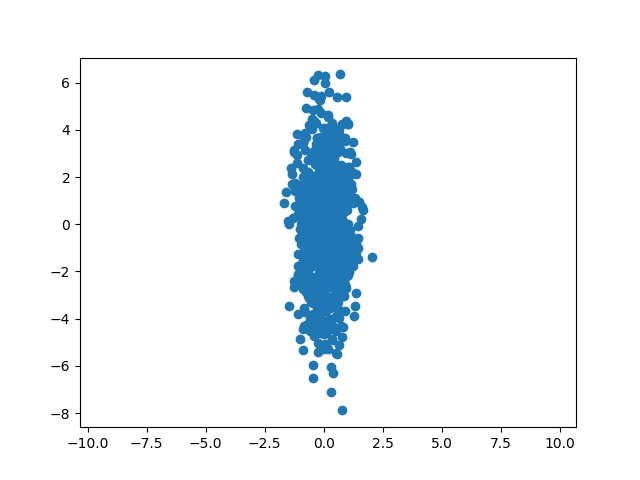
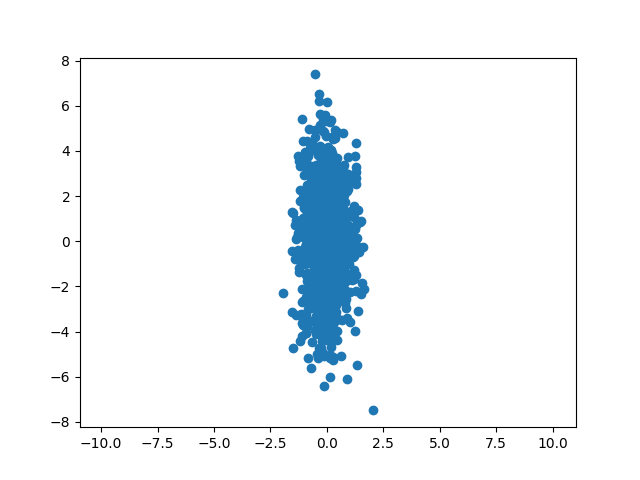
Write up most of the report

diff --git a/lab5/latex/main.tex b/lab5/latex/main.tex
@@ -46,93 +46,81 @@
 \usepackage[colorlinks=true, allcolors=blue]{hyperref}
 \graphicspath{{./figures/}}
 
-\title{ECE 637 - Lab 1}
+\title{ECE 637 Lab - Eigen-Decomposition of Images}
 \author{Colin Braun}
 
 \begin{document}
 \maketitle
 
-\section{Area Fill}
-\subsection{Print out of img22gd2.tif}
+\stepcounter{section}
+\section{Multivariate Gaussian Distributions and Whitening}
+\subsection{Generating Gaussian Random Vectors}
 \begin{figure}[H]
     \centering
-    \includegraphics[width=1\textwidth]{../img22gd2.png}
-    \begin{center}
-    \end{center}
-\end{figure}
-\subsection{Print out of image showing the connected set for s = (67, 45), and T = 2}
+    \includegraphics[width=1\textwidth]{../w-2-1.png}
+        \end{figure}
 \begin{figure}[H]
     \centering
-    \includegraphics[width=1\textwidth]{../connected-set-2t.png}
-    \begin{center}
-    \end{center}
-\end{figure}
-\subsection{Print out of image showing the connected set for s = (67, 45), and T = 1}
+    \includegraphics[width=1\textwidth]{../x-tilde-2-1.png}
+        \end{figure}
 \begin{figure}[H]
     \centering
-    \includegraphics[width=1\textwidth]{../connected-set-1t.png}
-    \begin{center}
-    \end{center}
-\end{figure}
-\subsection{Print out of image showing the connected set for s = (67, 45), and T = 3}
+    \includegraphics[width=1\textwidth]{../x-2-1.png}
+        \end{figure}
+\subsection{Covariance Estimation and Whitening}
+The theoretical value of the covariance $R_x$ is given as
+\begin{equation*}
+R_x = 
+\begin{bmatrix}
+    2 & -1.2 \\
+    -1.2 & 1
+\end{bmatrix}
+\end{equation*}.
+The covariance estimate $\hat{R}_X$ is calculated to be
+\begin{equation*}
+\hat{R}_X = 
+\begin{bmatrix}
+    1.97 & -1.19 \\
+    -1.19 & 0.99
+\end{bmatrix}
+\end{equation*}.
 \begin{figure}[H]
     \centering
-    \includegraphics[width=1\textwidth]{../connected-set-3t.png}
-    \begin{center}
-    \end{center}
-\end{figure}
-\subsection{C Code}
-\lstinputlisting[language=C]{../section1.c}
-
-
-
-\section{Image Segmentation}
-\subsection{Print out of randomly colored segmentation for T = 1, T = 2, and T = 3}
+    \includegraphics[width=1\textwidth]{../x-tilde-2-2.png}
+        \end{figure}
 \begin{figure}[H]
     \centering
-    \includegraphics[width=1\textwidth]{../segmentation-1t-contrasted.png}
-    \caption{T = 1}
-    \begin{center}
-    \end{center}
+    \includegraphics[width=1\textwidth]{../w-2-2.png}
+\end{figure}
+The covariance estimate $\hat{R}_W$ is calculated to be
+\begin{equation*}
+\hat{R}_W = 
+\begin{bmatrix}
+    2 & -1.2 \\
+    -12 & 1
+\end{bmatrix}
+\end{equation*}.
+
+% Skip section 3
+\stepcounter{section}
+\section{Eigenimages, PCA, and Data Reduction}
+\subsection{Exercise}
+\begin{figure}[H]
+    \centering
+    \includegraphics[width=1\textwidth]{../eigenimages.png}
 \end{figure}
 \begin{figure}[H]
     \centering
-    \includegraphics[width=1\textwidth]{../segmentation-2t-contrasted.png}
-    \caption{T = 2}
-    \begin{center}
-    \end{center}
+    \includegraphics[width=1\textwidth]{../projection-coefficients.png}
 \end{figure}
 \begin{figure}[H]
     \centering
-    \includegraphics[width=1\textwidth]{../segmentation-3t-contrasted.png}
-    \caption{T = 3}
-    \begin{center}
-    \end{center}
+    \includegraphics[width=1\textwidth]{../original-image.png}
 \end{figure}
 
-\subsection{Listing of the number of regions generated for each of the values of T = 1, T = 2, and T = 3}
-\begin{center}
-    % T | Total segments | Large Segments
-    \begin{tabular}{|c|c|c|}
-        \hline
-        T & Total Segments & Large Segments \\
-        \hline
-        1 & 27654 & 36 \\
-        \hline
-        2 & 16747 & 41 \\
-        \hline
-        3 & 11190 & 22 \\
-        \hline
-    \end{tabular}
-\end{center}
-
-\subsection{C Code}
-\lstinputlisting[language=C]{../section2.c}
+\section{Image Classification}
+\subsection{Exercise: Classification and PCA}
 
 
-
-\section{Appendix - util.c Code}
-Below is the code included in util.c. All other function calls not included in any of the source codes in this document are available in the starter code provided in lab 1.
-\lstinputlisting[language=C]{../util.c}
 
 \end{document}

diff --git a/lab5/section2.py b/lab5/section2.py
@@ -39,6 +39,7 @@ Z = np.copy(X)
 for col in range(Z.shape[1]):
     Z[:, col] -= u
 R_hat = 1/(n-1) * Z @ Z.T
+print(R_hat)
 evals, evecs = np.linalg.eig(R_hat)
 evals_n12 = np.diag(1 / evals)
 
